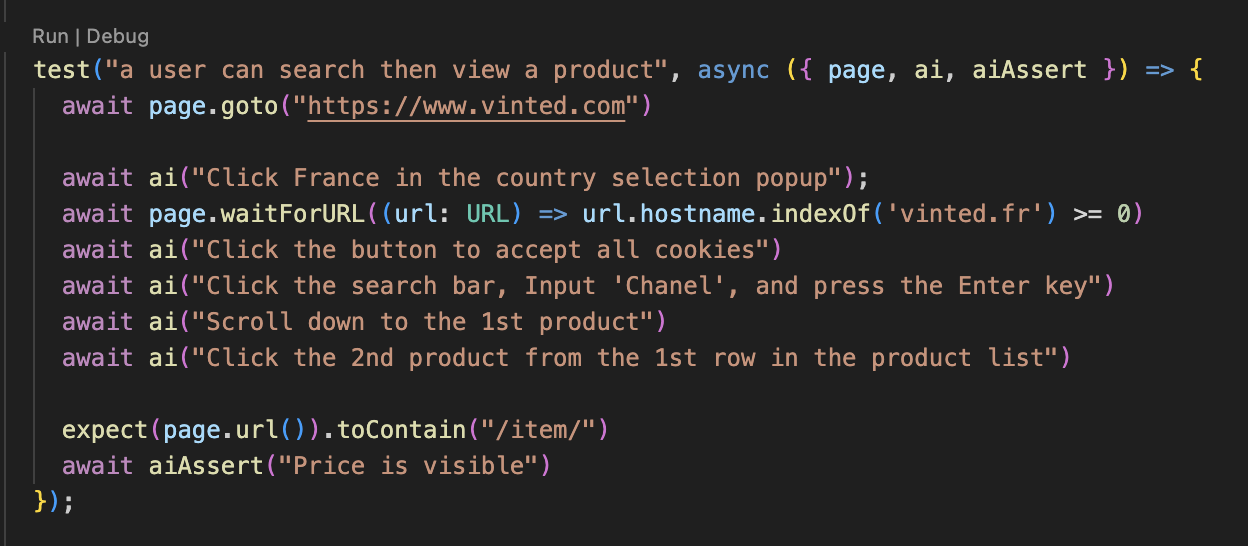
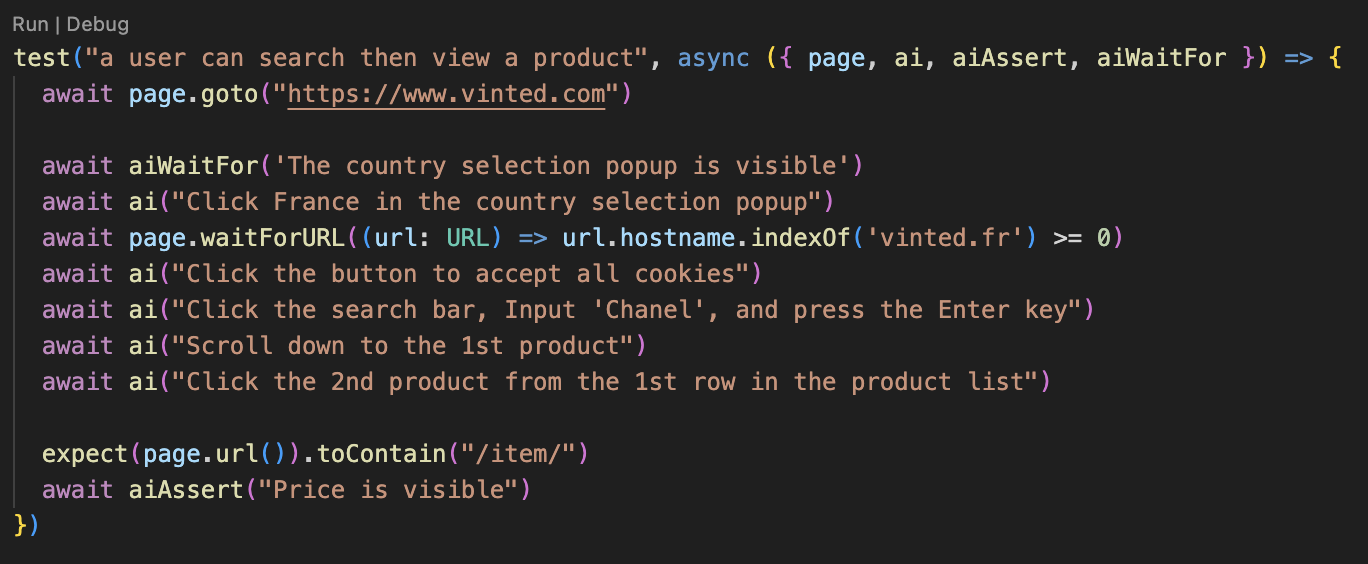
Update test

Changed region(s): [[0.0, 0.0311, 1.0, 0.9652]]

diff --git a/e2e/vinted.spec.ts b/e2e/vinted.spec.ts
@@ -4,10 +4,11 @@ import { test } from "./fixture";
 
 test.describe('vinted', () => {
 
-  test("a user can search then view a product", async ({ page, ai, aiAssert }) => {
+  test("a user can search then view a product", async ({ page, ai, aiAssert, aiWaitFor }) => {
     await page.goto("https://www.vinted.com")
-    
-    await ai("Click France in the country selection popup");
+   
+    await aiWaitFor('The country selection popup is visible')
+    await ai("Click France in the country selection popup")
     await page.waitForURL((url: URL) => url.hostname.indexOf('vinted.fr') >= 0)
     await ai("Click the button to accept all cookies")
     await ai("Click the search bar, Input 'Chanel', and press the Enter key")
@@ -16,5 +17,7 @@ test.describe('vinted', () => {
     
     expect(page.url()).toContain("/item/")
     await aiAssert("Price is visible")
-  });
+  })
+
+
 })

diff --git a/README.md b/README.md
@@ -1,11 +1,5 @@
 # Midscene Playwright Uitars Example
 
-<p align="center">
-  <video width="600" controls>
-  <source src="https://youtu.be/36EEQ922a5c?si=1lBv40MlOLfJXS8s" type="video/mp4">
-  Your browser does not support the video tag.
-</video>
-</p>
 
 ![UI-Tars:7B](./demo/example-code.png)
 
